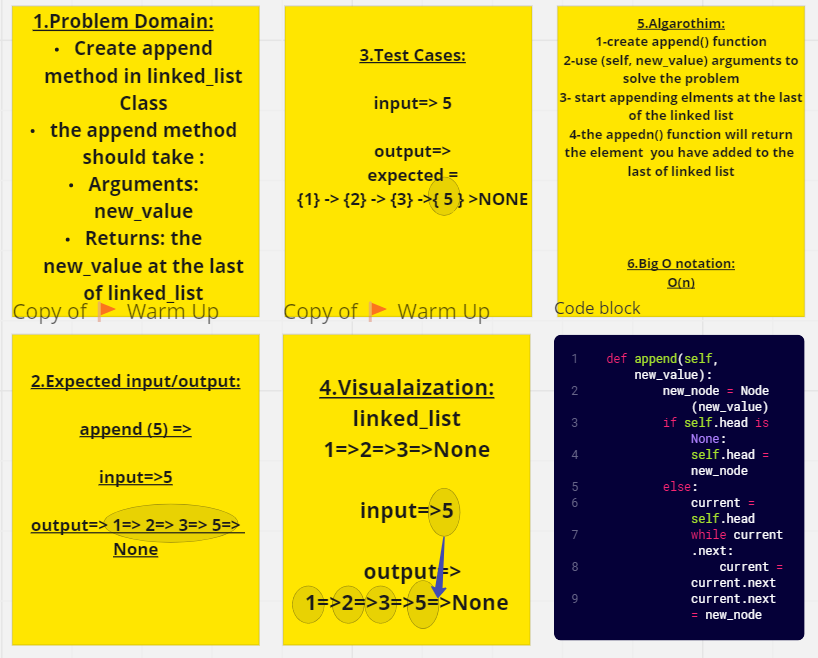
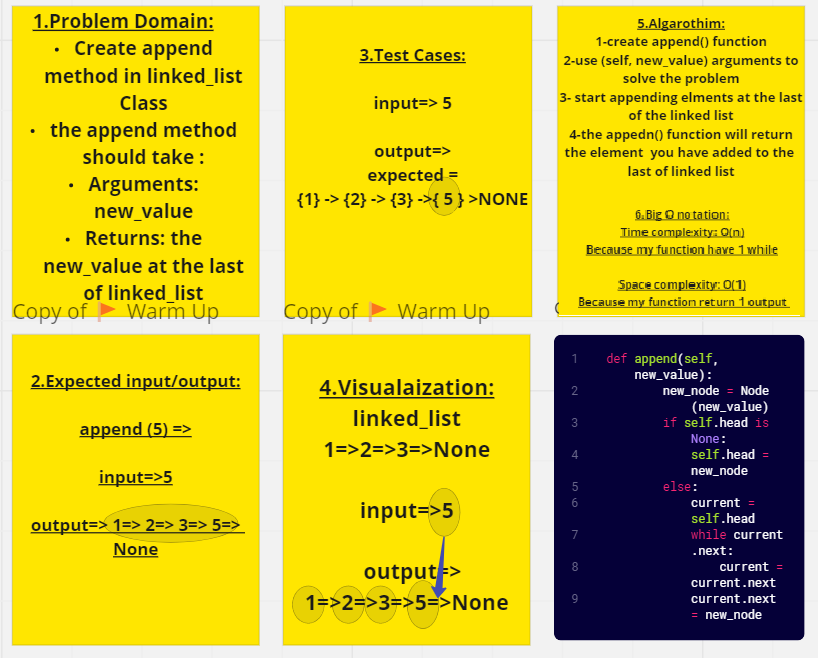
code 07

Changed region(s): [[0.6724, 0.304, 0.978, 0.4863]]

diff --git a/linked_list/tests/test_linked_list.py b/linked_list/tests/test_linked_list.py
@@ -110,6 +110,36 @@ def test_insert_after_last_node():
     assert my_list.head.next.next.value == 3
     assert my_list.head.next.next.next is None
 
+def test_kthFromEnd_greater_than_length():
+    my_list = Linked_List()
+    my_list.insert(1)
+    my_list.insert(2)
+    my_list.insert(3)
+    assert my_list.kthFromEnd(4) == "Exception"
+def test_kthFromEnd_length_and_k_are_same():
+    my_list = Linked_List()
+    my_list.append(1)
+    my_list.append(2)
+    my_list.append(3)
+    assert my_list.kthFromEnd(3) == "Exception"
+def test_kthFromEnd_negative_k():
+    my_list = Linked_List()
+    my_list.append(1)
+    my_list.append(2)
+    my_list.append(3)
+    assert my_list.kthFromEnd(-2) == 3
+def test_kthFromEnd_size_1_list():
+    single_node_list = Linked_List()
+    single_node_list.append(1)
+    assert single_node_list.kthFromEnd(0) == 1
+def test_kthFromEnd_middle_node():
+    my_list = Linked_List()
+    my_list.append(1)
+    my_list.append(2)
+    my_list.append(3)
+    my_list.append(4)
+    assert my_list.kthFromEnd(2) == 2
+
 @pytest.fixture(autouse=True)
 def counter_reset():
     Linked_List.counter = 0

diff --git a/linked_list/linked_list.py b/linked_list/linked_list.py
@@ -1,13 +1,9 @@
 import re
-
-
 class Node :
     def __init__(self, value, next = None):
         self.value = value
         self.next = next
 
-      
-        
 class Linked_List:
    
     def __init__(self, head = None):
@@ -82,6 +78,26 @@ class Linked_List:
                 current.next = new_node
                 return
             current = current.next
+    def kthFromEnd(self, k):
+        if self.head is None:
+            return "Linked list is empty."
+        first = self.head
+        second = self.head
+        count = 0
+        while count < k:
+            if second.next is None:
+                return "Exception"
+            second = second.next
+            count += 1
+# moves the second pointer k steps from ahead
+# count to  track of the number of steps
+        while second.next:
+            first = first.next
+            second = second.next
+# move the first and second pointers
+# second reaches the last node
+# first pointer ends up at the node that is k steps
+        return first.value
 
     def traverse(self):
         current = self.head

diff --git a/linked_list/linked-list.md b/linked_list/linked-list.md
@@ -1,6 +1,5 @@
 # Challenge Title : Linked List
 
-
 # Whiteboard Process :
 
 ## Code Challenge 05 : insert method
@@ -11,6 +10,10 @@
 ![insert_before](./code6_Insert_befor.png)
 ## Code Challenge 06 : insert_after method
 ![insert_after](./code6_insert_after.png)
+
+## Code Challenge 07 :linked_list_kth
+![linked-list-kth](./linked-list-kth.PNG)
+
 ## Solution
 ==> pytest
 
